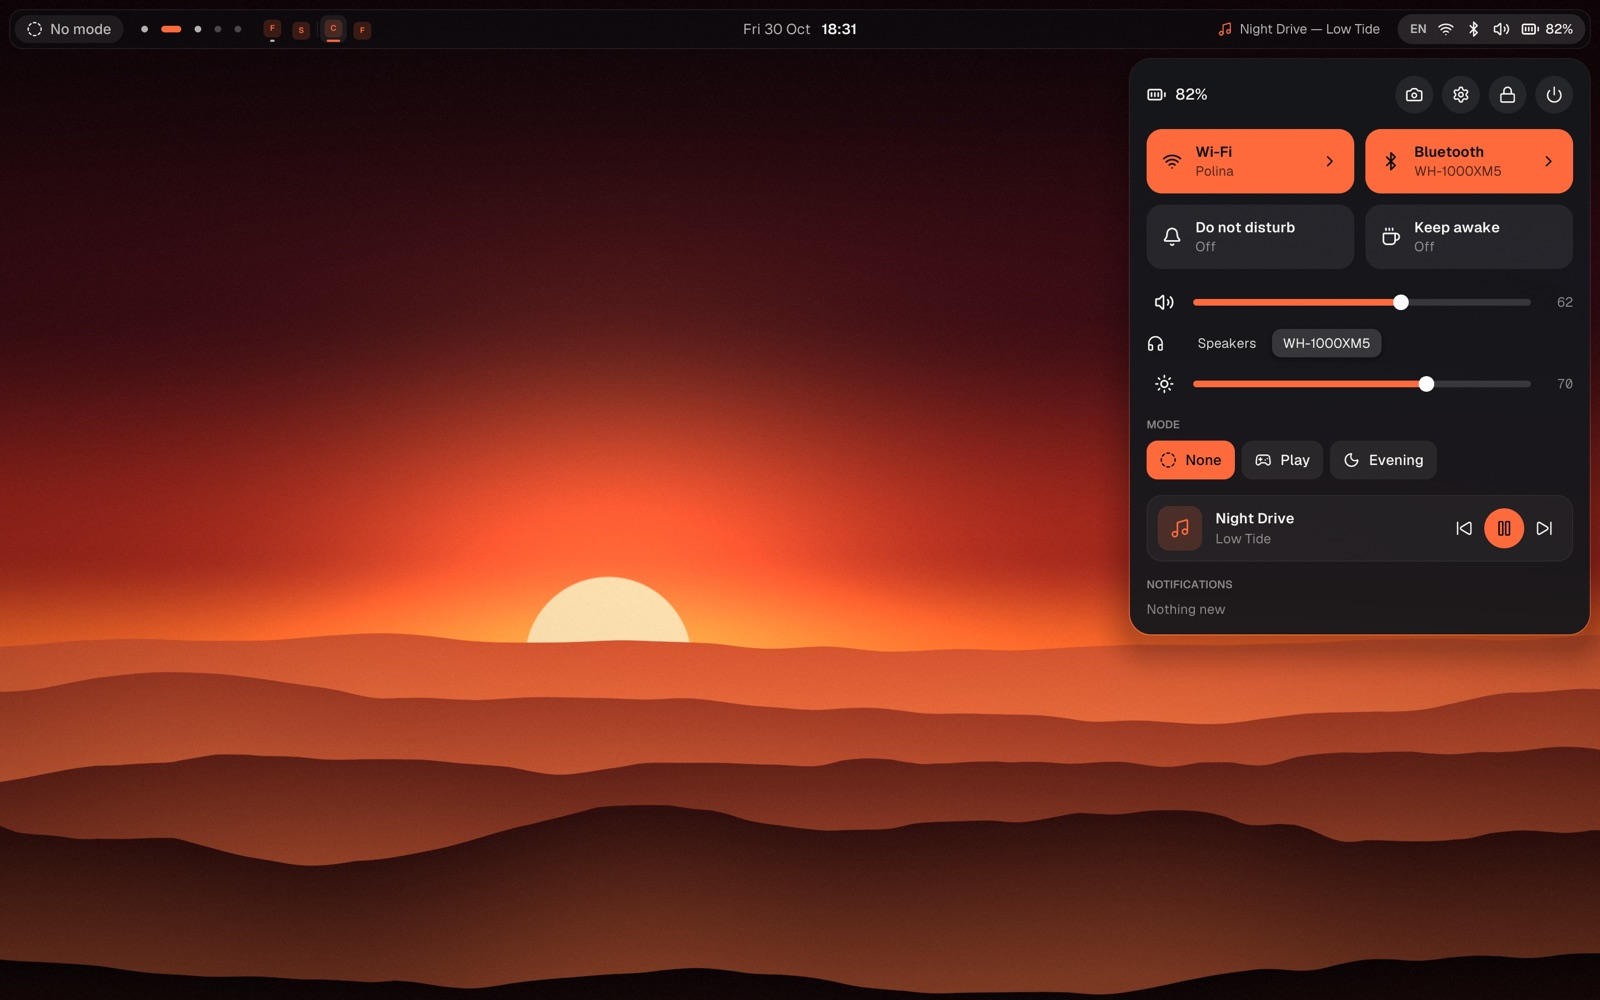
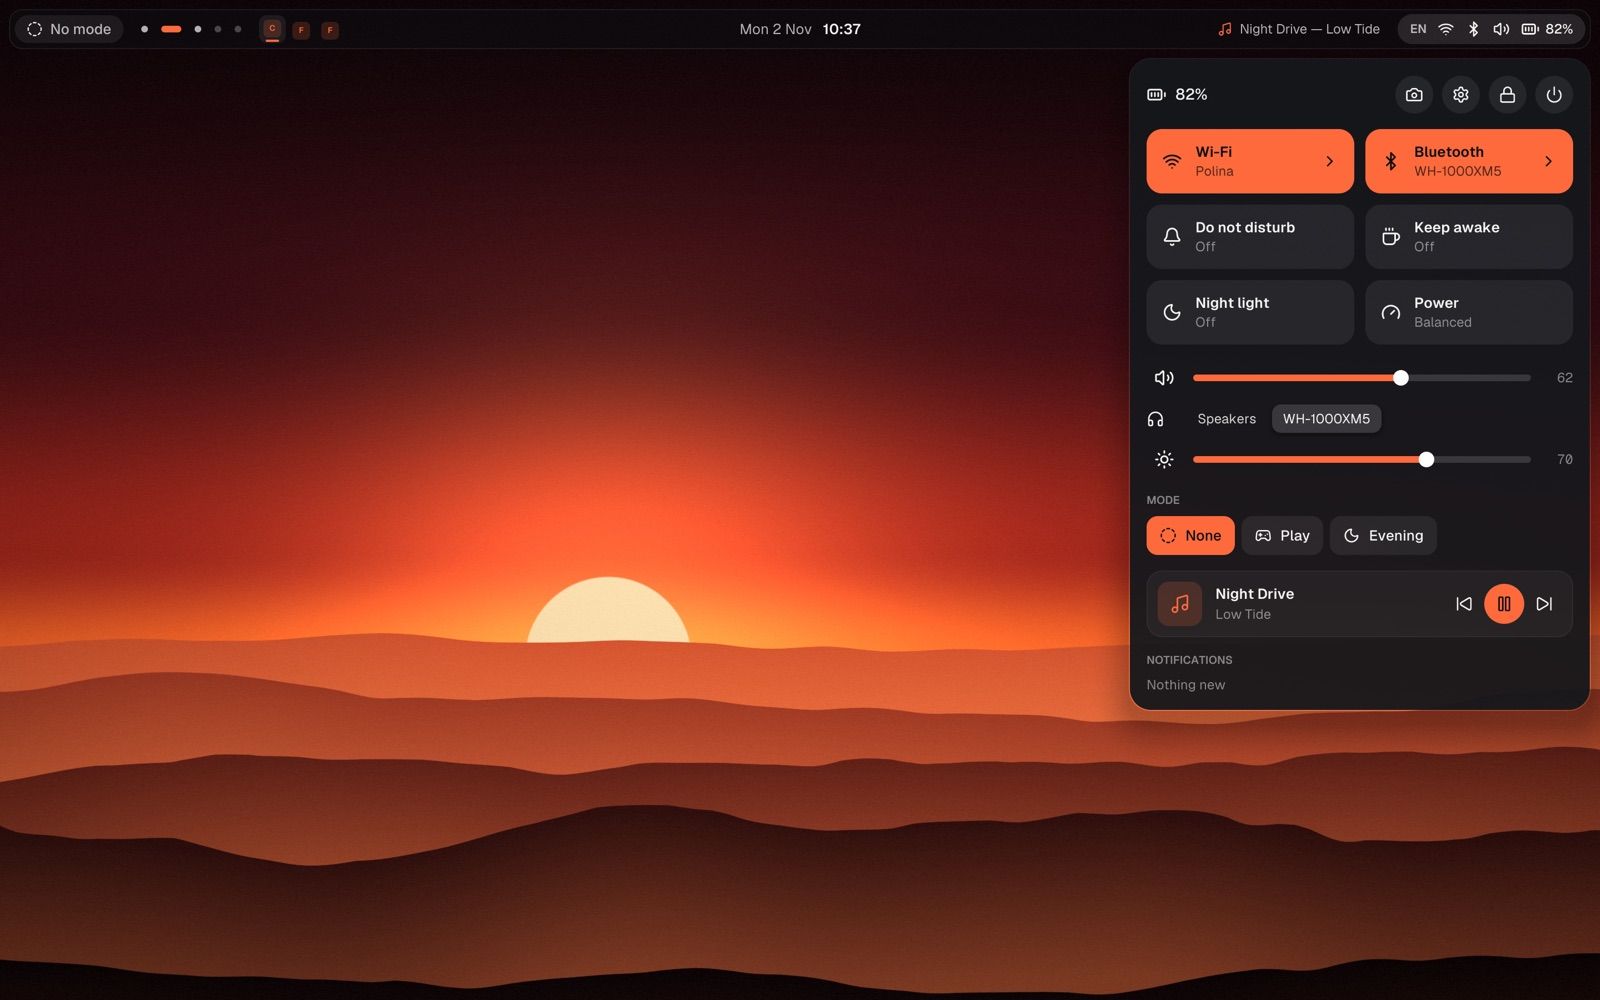
Quick settings and Bluetooth in the README pictures

diff --git a/crates/shell/src/main.rs b/crates/shell/src/main.rs
@@ -70,7 +70,7 @@ use std::process::ExitCode;
 
 use apolline_config::{Config, Editor, slug};
 
-const USAGE: &str = "usage: apolline [--mode NAME] [--preview] [--open launcher|panel|wifi|switch|clipboard|keys|calendar|polkit|osd] [--query TEXT] [--screenshot FILE]
+const USAGE: &str = "usage: apolline [--mode NAME] [--preview] [--open launcher|panel|wifi|bluetooth|switch|clipboard|keys|calendar|polkit|osd] [--query TEXT] [--screenshot FILE]
        apolline mode NAME|next|none
        apolline switch | launcher | panel | clipboard | keys
        apolline volume up|down|mute | mic mute | brightness up|down

diff --git a/README.md b/README.md
@@ -13,7 +13,7 @@ Early days. Inside a Wayland session on Linux it draws the wallpaper and the bar
 | ![The launcher finds the running Firefox before offering a new one](docs/screenshots/launcher.jpg) | ![The lock screen, with the weather and what's coming up](docs/screenshots/lock.jpg) |
 | ![Switching modes](docs/screenshots/switch.jpg) | ![Settings → Modes, with the lines it writes](docs/screenshots/modes.jpg) |
 | ![Settings → Themes](docs/screenshots/themes.jpg) | ![The calendar under the clock: the weather and the day's events](docs/screenshots/calendar.jpg) |
-| ![Notifications with a picture, a progress bar and the app's own buttons](docs/screenshots/notifications.jpg) | |
+| ![Notifications with a picture, a progress bar and the app's own buttons](docs/screenshots/notifications.jpg) | ![Bluetooth: your devices with the headphones' battery, and new ones nearby to pair](docs/screenshots/bluetooth.jpg) |
 
 ## Install on Arch
 
